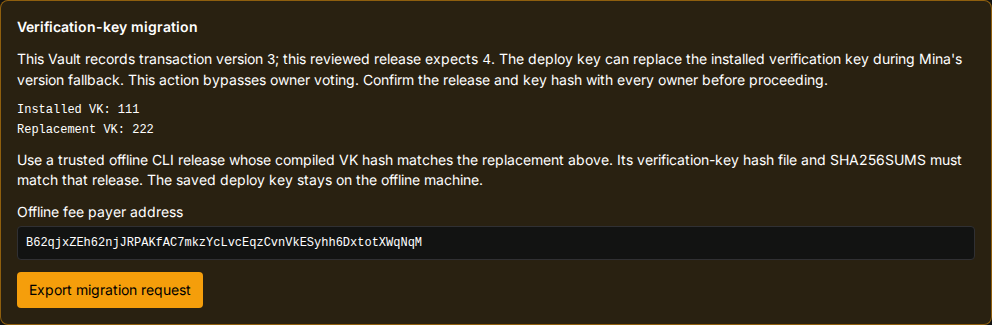
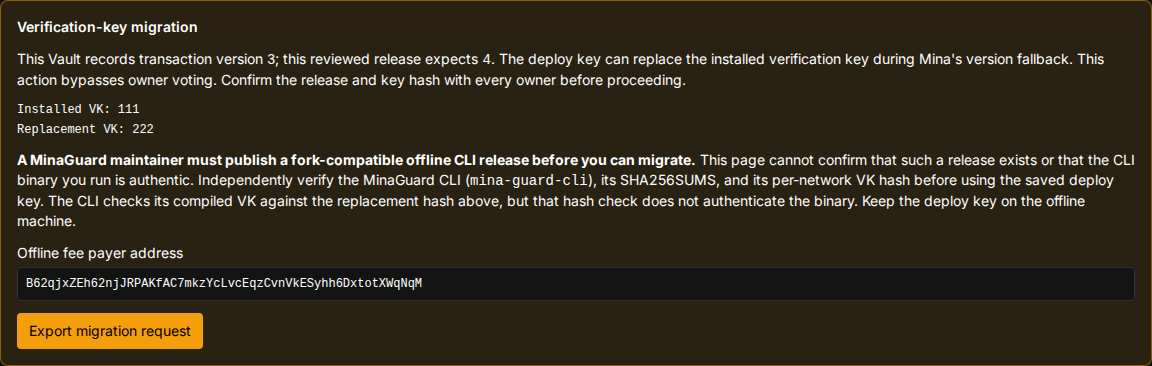
docs(vault): clarify offline CLI release verification

Changed region(s): [[0.0, 0.1231, 1.0, 0.8], [0.0, 0.8308, 0.2188, 0.9538], [0.0, 0.0615, 0.2188, 0.1231]]

diff --git a/ui/components/VaultVerificationKeyMigration.tsx b/ui/components/VaultVerificationKeyMigration.tsx
@@ -87,7 +87,7 @@ export default function VaultVerificationKeyMigration({ address, walletAddress }
         <div>Installed VK: {status?.verificationKeyHash ?? '?'}</div>
         <div>Replacement VK: {targetHash}</div>
       </dl>
-      <p>Use a verified release of the MinaGuard offline CLI (<code>mina-guard-cli</code>) whose compiled VK hash matches the replacement above. Its verification-key hash file and SHA256SUMS must match that release. The saved deploy key stays on the offline machine.</p>
+      <p><strong>A MinaGuard maintainer must publish a fork-compatible offline CLI release before you can migrate.</strong> This page cannot confirm that such a release exists or that the CLI binary you run is authentic. Independently verify the MinaGuard CLI (<code>mina-guard-cli</code>), its SHA256SUMS, and its per-network VK hash before using the saved deploy key. The CLI checks its compiled VK against the replacement hash above, but that hash check does not authenticate the binary. Keep the deploy key on the offline machine.</p>
       {!txHash && <>
         <label className="block">Offline fee payer address
           <input className="block mt-1 w-full rounded border border-safe-border bg-safe-dark p-2 font-mono text-xs" value={feePayer} onChange={(event) => setFeePayer(event.target.value.trim())} />

diff --git a/docs/offline-audit-guide.md b/docs/offline-audit-guide.md
@@ -276,6 +276,12 @@ mismatch. `MINA_PRIVATE_KEY` is the saved deploy key; if the fee payer differs,
 `MINA_FEE_PAYER_PRIVATE_KEY` supplies its key. Both remain offline. The CLI
 shows the installed and replacement hashes, network, and vault before signing.
 Its output is a version 2 signed transaction; stdout still contains JSON only.
+The UI cannot establish that a compatible CLI release has been published or
+authenticate the binary run offline. A maintainer must publish a reviewed
+fork-compatible CLI release, and the user must independently verify its
+checksums and per-network VK hash before entering the deploy key. The CLI's
+compiled-VK hash check enforces compatibility with the requested hash when
+run as intended; it does not authenticate the CLI binary.
 The UI checks the command has exactly one signed vault update that changes
 only the VK, rechecks the old VK and version directly with the node, broadcasts,
 then offers a node check for the target VK, current version, and permissions.

diff --git a/docs/ui-audit-guide.md b/docs/ui-audit-guide.md
@@ -413,6 +413,10 @@ on-chain version; it does not submit a key-signed no-op.
 If the installed VK differs from the release-pinned replacement VK, the detail
 page instead offers deploy-key migration. It displays both hashes, exports a
 version 2 request, and imports the MinaGuard offline CLI's signed response.
+The panel warns that a maintainer must publish a fork-compatible CLI release
+first. The browser does not check release availability or authenticate the
+offline binary; users must independently verify the release, checksums, and
+per-network VK hash before entering the saved deploy key.
 The import checks the response binding and command shape, then rechecks the
 installed VK, version, and permissions against the Mina node before broadcast.
 After inclusion, the user can check the on-chain VK hash, stored version, and
